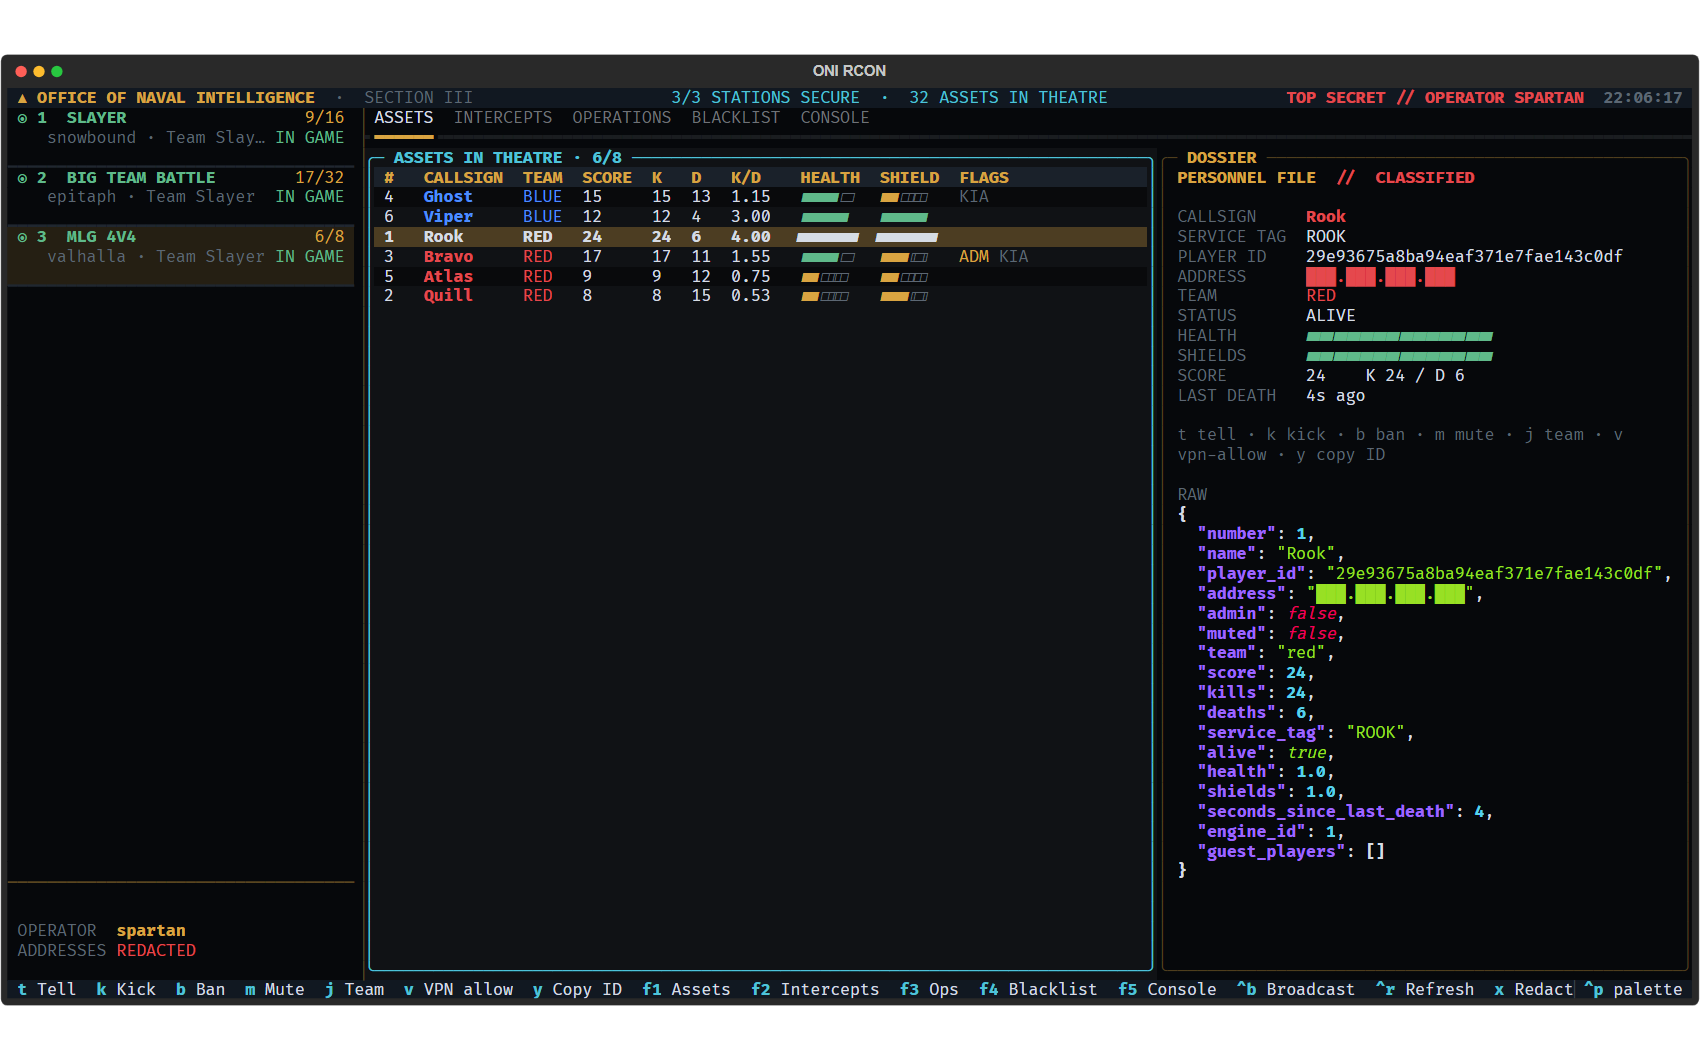
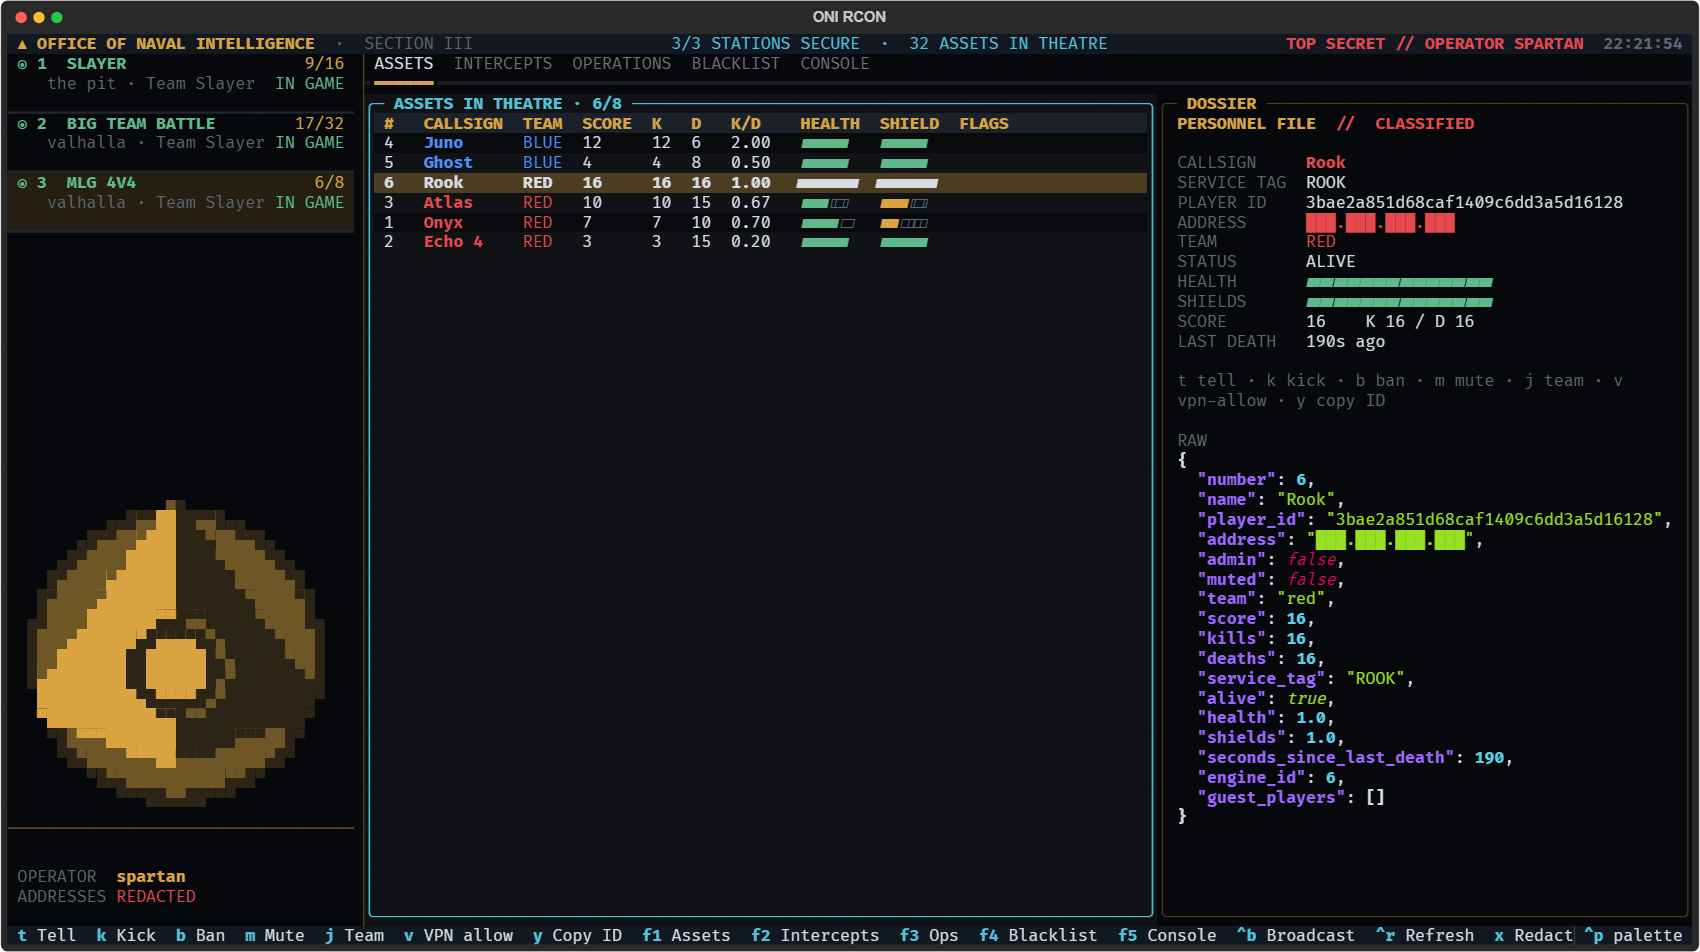
Traced ONI emblem on the boot screen and sidebar; new screenshots
The emblem is a pixel grid (emblem.txt, four tones, 48/40/32/28/24 px) drawn
in half blocks, sized to the window: the largest that fits on the boot screen,
and a sidebar crest that steps aside when the station cards need the room.

Also: callbacks no longer repaint after quit begins (NoMatches on exit), and
the demo server treats a client hanging up as normal.

diff --git a/src/oni_rcon/app.py b/src/oni_rcon/app.py
@@ -10,6 +10,7 @@ from collections import deque
 from dataclasses import dataclass, field
 from datetime import datetime
 from os.path import commonprefix
+from pathlib import Path
 
 from rich.console import Group
 from rich.json import JSON
@@ -64,8 +65,31 @@ OPS = [("load", "LOAD MAP+MODE", "primary"), ("map", "CHANGE MAP", "default"), (
 BAN_OPS = [("newban", "NEW BAN", "error"), ("unban", "UNBAN  u", "warning"), ("vpnallow", "VPN ALLOW  a", "default"),
            ("vpnrevoke", "VPN REVOKE  r", "default"), ("vpncheck", "CHECK IP", "default")]
 
-EMBLEM = "\n".join(["▄█▄", "▄███▄", "▄██▀██▄", "▄██▀ ▀██▄", "▄██▀ ▄ ▀██▄", "▄██▀ ▄█▄ ▀██▄", "▄██▀ ▄███▄ ▀██▄",
-                    "▄██▀▀▀▀▀▀▀▀▀▀▀██▄", "▀▀▀▀▀▀▀▀▀▀▀▀▀▀▀▀▀▀▀"])
+# The ONI emblem, traced into pixel grids (largest first); tones 1 dark face, 2 rays, 3 bright face.
+EMBLEMS = [b.split() for b in re.sub(r"(?m)^#.*\n", "", Path(__file__).with_name("emblem.txt")
+                                     .read_text(encoding="utf-8")).strip().split("\n\n")]
+TONES = {"1": "#2C2415", "2": "#6F5626", "3": AMBER}
+
+
+def emblem(rows: int, cols: int = 999) -> Text:
+    """The largest emblem that fits in rows x cols cells, two pixels per cell in half blocks. Empty if none fits."""
+    g = next((g for g in EMBLEMS if len(g) // 2 <= rows and len(g[0]) <= cols), [])
+    lines = []
+    for top, bot in zip(g[::2], g[1::2]):
+        line = Text()
+        for a, b in zip(top, bot):
+            if a == b == "0":
+                line.append(" ")
+            elif a == b:  # a solid cell is a coloured space: no glyph seams between rows
+                line.append(" ", f"on {TONES[a]}")
+            elif b == "0":
+                line.append("▀", TONES[a])
+            elif a == "0":
+                line.append("▄", TONES[b])
+            else:
+                line.append("▀", f"{TONES[a]} on {TONES[b]}")
+        lines.append(line)
+    return Text("\n").join(lines)
 
 
 # --- reading tolerant: field names come from the docs, so every lookup accepts the plausible spellings ---------
@@ -325,7 +349,8 @@ class Boot(Screen):
 
     def compose(self) -> ComposeResult:
         with Vertical(id="boot"):
-            yield Static(Text(EMBLEM, AMBER), id="boot-emblem")
+            with Center():
+                yield Static(id="boot-emblem")
             yield Static(Text.assemble(("\nO F F I C E   O F   N A V A L   I N T E L L I G E N C E\n", f"bold {AMBER}"),
                                        ("SECTION THREE  ·  REMOTE CONSOLE TERMINAL  ·  ", DIM),
                                        ("TOP SECRET", f"bold {RED}")), id="boot-title")
@@ -335,6 +360,10 @@ class Boot(Screen):
     def on_mount(self) -> None:
         self.t0, self.done = time.monotonic(), None
         self.set_interval(0.07, self.tick)
+        self.on_resize()
+
+    def on_resize(self) -> None:  # leave room for the title and a log line per station
+        self.query_one("#boot-emblem", Static).update(emblem(self.app.size.height - 12 - len(self.app.stations)))
 
     @staticmethod
     def dotted(k: str, v: str, color: str) -> Text:
@@ -427,6 +456,8 @@ class OniApp(App):
         with Horizontal(id="body"):
             with Vertical(id="sidebar"):
                 yield ListView(*[ListItem(c) for c in self.cards], id="stations")
+                with Center():
+                    yield Static(id="crest")
                 yield Static(id="uplink")
             with TabbedContent(id="tabs", initial="assets"):
                 with TabPane("ASSETS", id="assets"):
@@ -498,6 +529,14 @@ class OniApp(App):
             st.worker = self.run_worker(st.rcon.run(), group="rcon", exit_on_error=False)
 
         self.set_interval(1, self.paint_masthead)
+        self.on_resize()
+
+    def on_resize(self) -> None:
+        # the sidebar crest takes what the station cards and uplink leave, and goes when that's too little
+        free = self.size.height - 9 - len(self.tunnels) - 3 * len(self.stations)
+        crest = self.query_one("#crest", Static)
+        crest.update(art := emblem(min(free, 16), 32))
+        crest.display = bool(art.plain)
         self.set_interval(3, self.poll_fast)
         self.set_interval(15, self.poll_slow)
         self.paint_all()
@@ -506,6 +545,8 @@ class OniApp(App):
 
     # --- connections -----------------------------------------------------------------------------------------
     def on_rcon_state(self, rcon: Rcon, state: str, detail: str) -> None:
+        if not self.is_running:  # a late reply or event while quitting: the widgets are already gone
+            return
         st = next(s for s in self.stations if s.rcon is rcon)
         if state == "online":
             self.relabel()
@@ -522,6 +563,8 @@ class OniApp(App):
         self.paint_card(st)
 
     def on_tunnel(self, tun: Tunnel, state: str, detail: str) -> None:
+        if not self.is_running:  # a late reply or event while quitting: the widgets are already gone
+            return
         if state == "down":
             self.log_event(None, {"event": "uplink", "text": f"SSH {tun.dest} DOWN  {detail}"})
         self.paint_uplink()
@@ -596,6 +639,8 @@ class OniApp(App):
         self.run_worker(go(), group="cmd", exit_on_error=False)
 
     def on_rcon_event(self, rcon: Rcon, ev: dict) -> None:
+        if not self.is_running:  # a late reply or event while quitting: the widgets are already gone
+            return
         st = next(s for s in self.stations if s.rcon is rcon)
         self.log_event(st, ev)
         if self.raw_events:
@@ -631,6 +676,8 @@ class OniApp(App):
 
     # --- painting --------------------------------------------------------------------------------------------
     def paint(self, st: Station, what: tuple) -> None:
+        if not self.is_running:  # a late reply or event while quitting: the widgets are already gone
+            return
         self.paint_card(st)
         if st is not self.cur:
             return

diff --git a/tests/test_oni_rcon.py b/tests/test_oni_rcon.py
@@ -4,7 +4,7 @@ import sys
 
 import pytest
 
-from oni_rcon.app import OniApp, render_event, target_of
+from oni_rcon.app import OniApp, emblem, render_event, target_of
 from oni_rcon.config import Server, load_config, parse_target, resolve_passwords
 from oni_rcon.demo import serve_fakes
 from oni_rcon.rcon import Rcon
@@ -28,6 +28,14 @@ def test_config(tmp_path, monkeypatch):
     resolve_passwords(servers)
     assert by == "op" and [s.ssh for s in servers] == ["box", ""]
     assert [s.password for s in servers] == ["42", "fromenv"]
+
+
+def test_emblem_fits():
+    for rows, cols in [(30, 999), (20, 999), (16, 32), (12, 24)]:
+        lines = emblem(rows, cols).split("\n")
+        assert 0 < len(lines) <= rows and all(len(line) <= cols for line in lines)
+        assert len({len(line) for line in lines}) == 1  # one block: the rows stay aligned when centred
+    assert emblem(11).plain == ""
 
 
 def test_event_lines():

diff --git a/src/oni_rcon/demo.py b/src/oni_rcon/demo.py
@@ -12,6 +12,7 @@ import threading
 import time
 
 from websockets.asyncio.server import serve
+from websockets.exceptions import ConnectionClosed
 
 CALLSIGNS = ["Bravo", "Echo 4", "Viper", "Nomad", "Ghost", "Rook", "Sable", "Kestrel", "Juno", "Tango", "Onyx",
              "Hollow", "Vesper", "Mako", "Quill", "Atlas", "Cinder", "Lark", "Drift", "Static"]
@@ -84,6 +85,8 @@ class Fake:
                 args = [str(a) for a in msg.get("args") or []] or parts[1:]
                 reply = await self.command(parts[0], args, msg.get("by") or "an admin")
                 await ws.send(json.dumps({"type": "reply", "id": msg.get("id"), **reply}))
+        except ConnectionClosed:  # the console quit mid-conversation: normal, not worth a traceback
+            pass
         finally:
             self.clients.discard(ws)
 

diff --git a/README.md b/README.md
@@ -1,5 +1,7 @@
 # oni-rcon
 
+![oni-rcon boot screen: the ONI emblem over the clearance check](docs/boot.png)
+
 **An ONI-themed terminal admin console for Project Reclaimer Halo 3 dedicated servers.**
 Every server you run on one screen: players, live intercepts, kicks and bans, map and mode control, votes, VPN
 allowances and a raw command console, wrapped in Office of Naval Intelligence, Section Three dossier styling.
@@ -31,7 +33,10 @@ Also:
 - **Destructive actions ask first.** The confirm button defaults to ABORT.
 - **A refused password is never retried.** The server locks an address out after 5 wrong passwords in 10 minutes, so oni-rcon won't trip it.
 
-![Intercepts tab](docs/intercepts.png)
+<p>
+  <img src="docs/intercepts.png" alt="Intercepts tab: one feed of chat, kills and joins from every server" width="49%">
+  <img src="docs/operations.png" alt="Operations tab: sitrep, rotation and server controls" width="49%">
+</p>
 
 ## Install
 
@@ -151,7 +156,7 @@ The demo servers (`oni_rcon/demo.py`) speak the same protocol as a real server a
 
 oni-rcon is an unofficial, fan-made tool. It is not affiliated with or endorsed by Microsoft, Halo Studios or the
 Project Reclaimer team. Halo and related names are trademarks of Microsoft Corporation, and the ONI styling is a fan
-tribute. oni-rcon contains no game assets.
+tribute: the emblem in the interface is a fan-made pixel rendition. oni-rcon contains no game files.
 
 ## Licence
 
